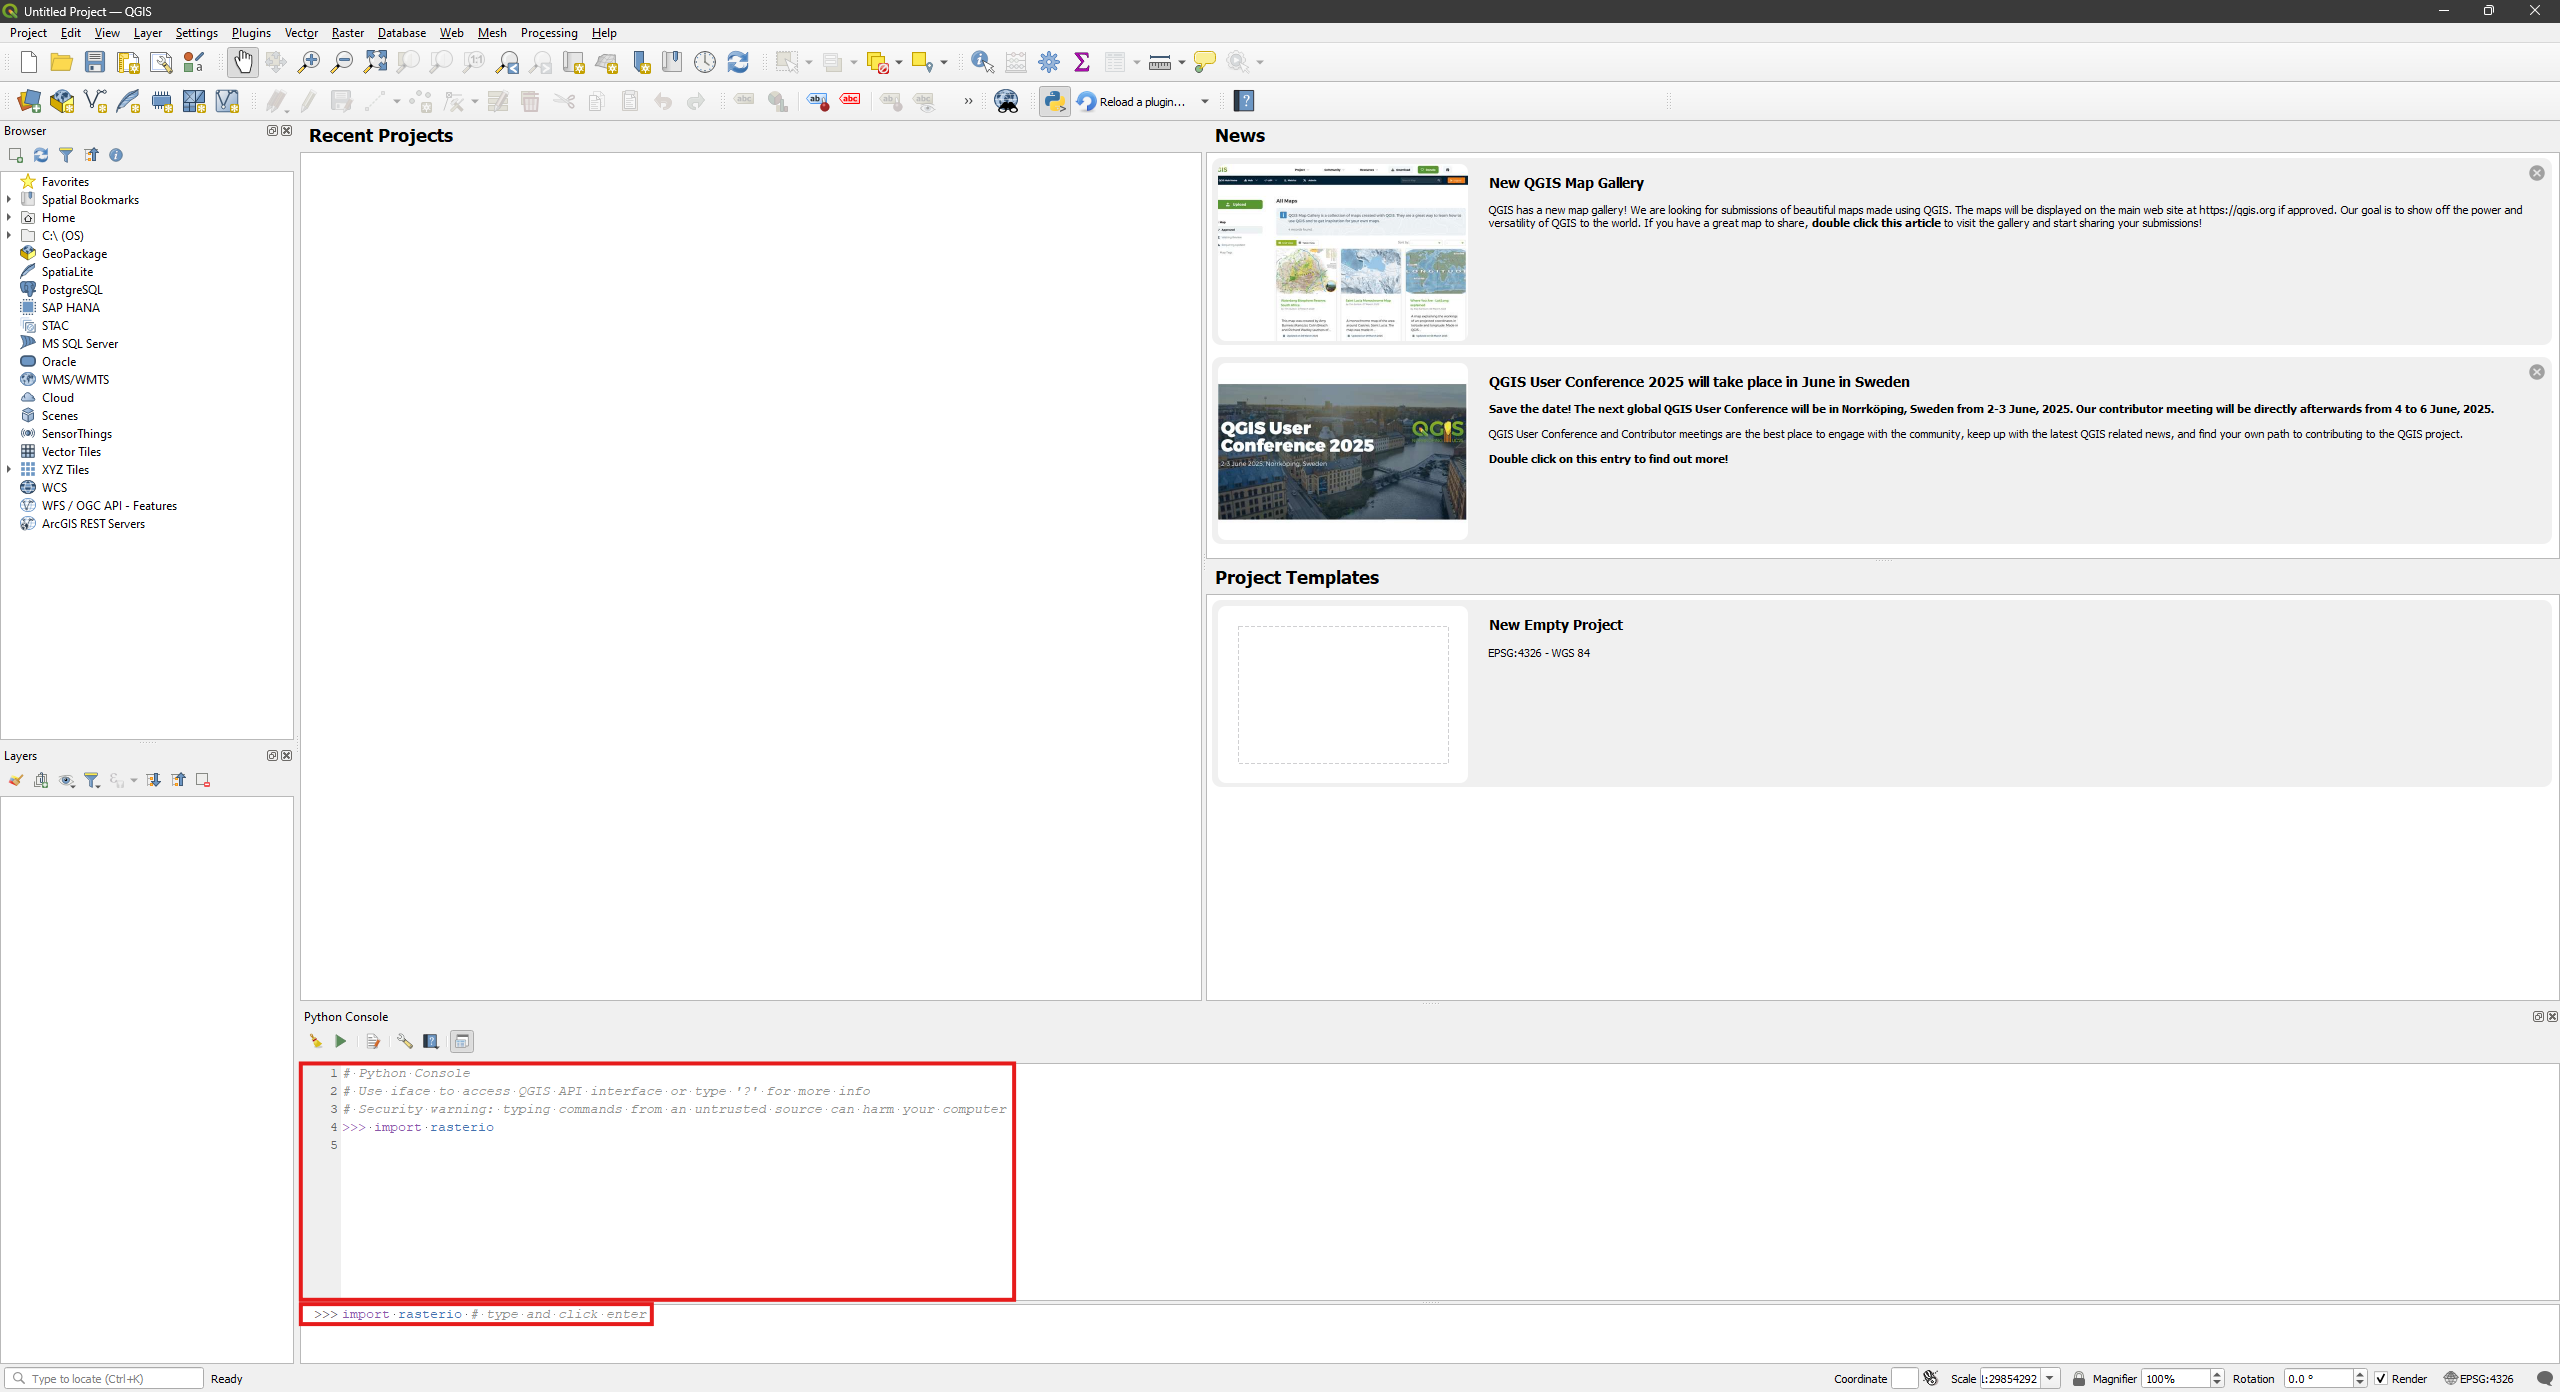
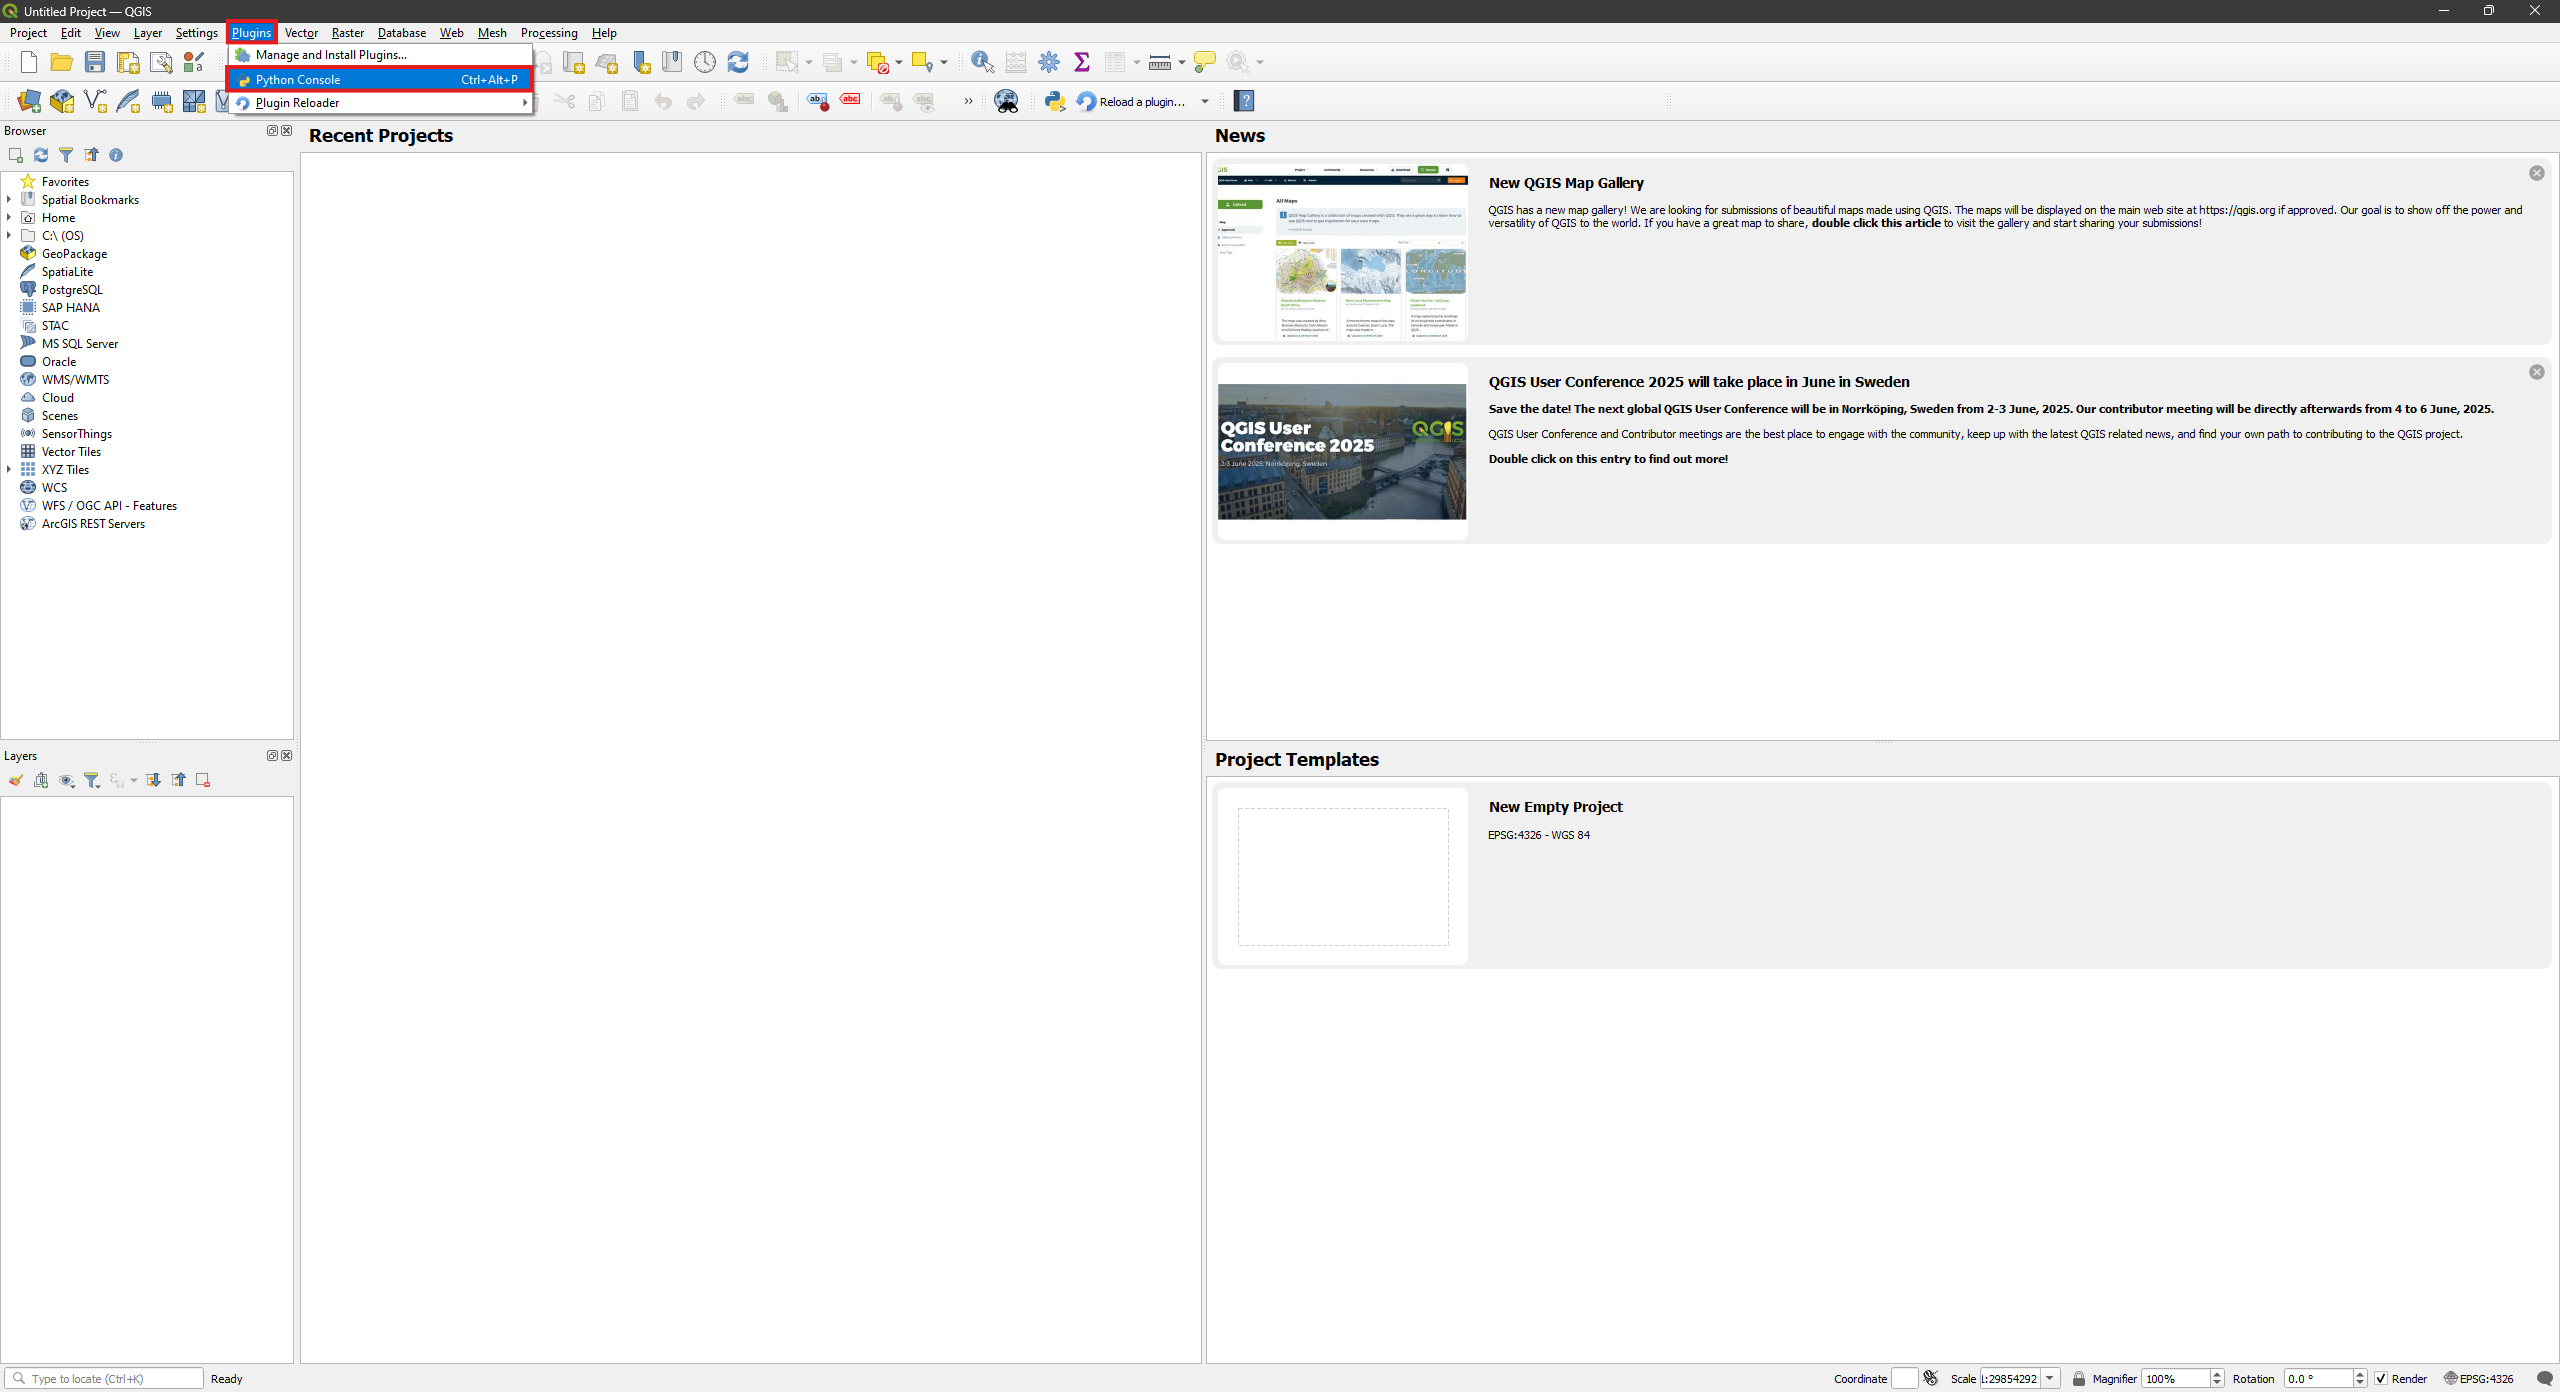
fix plugin instructions

diff --git a/README.md b/README.md
@@ -616,34 +616,48 @@ You can close the shell afterwards
 ![](doc/installing_plugin_2.png)
 
 3. Open your file explorer and navigate to the advanced directory.
-You should see a folder called "wildfire_simulator_plugin"
+You should see a folder called "wildfire_simulator_plugin".
+Click on the folder and press Left Control and C and the same time to copy to your clipboard.
 
 ![](doc/installing_plugin_3.png)
 
-4. Copy the "wildfire_simulator_plugin" folder to the following directory:
+4. Navigate to the following directory:
 ```bash
-C:/Users/<user>/AppData/Roaming/QGIS/QGIS3/profiles/default/python/plugins
+C:\Users\<user>\AppData\Roaming\QGIS\QGIS3\profiles\default\python
 ```
 > NOTE: You will need to modify the path according to your username
 
 ![](doc/installing_plugin_4.png)
 
-5. Start QGIS. If you are already running it, restart it.
+5. Right click in the folder view and select "New" and "Folder".
+Name the folder "plugins"
 
-6. To verify the rasterio installation, press "Plugins" and "Python Console".
+> NOTE: If you already see a directory called "plugins", you can skip and continue with step 6.
+
+> TODO: Windows won't let me take a screen shot of the "New" and "Folder" steps
+
+![](doc/installing_plugin_5.png)
+
+6. Navigate to the plugins folder and press Left Control and V at the same time to copy the plugin
+
+![](doc/installing_plugin_6.png)
+
+7. Start QGIS. If you are already running it, restart it.
+
+8. To verify the rasterio installation, press "Plugins" and "Python Console".
 In the Python Console, type "import rasterio".
 You should see no errors
 
-![](doc/installing_plugin_6.png)
 ![](doc/installing_plugin_7.png)
-
-7. Press "Plugins", "Manage and Install Plugins"
-
 ![](doc/installing_plugin_8.png)
 
-8. In the Plugins window, type "wildfire" and check the Wildfire Simulator plugin
+9. Press "Plugins", "Manage and Install Plugins"
 
 ![](doc/installing_plugin_9.png)
+
+10. In the Plugins window, type "wildfire" and check the Wildfire Simulator plugin
+
+![](doc/installing_plugin_10.png)
 
 #### 3.2.4 Simulating
 
